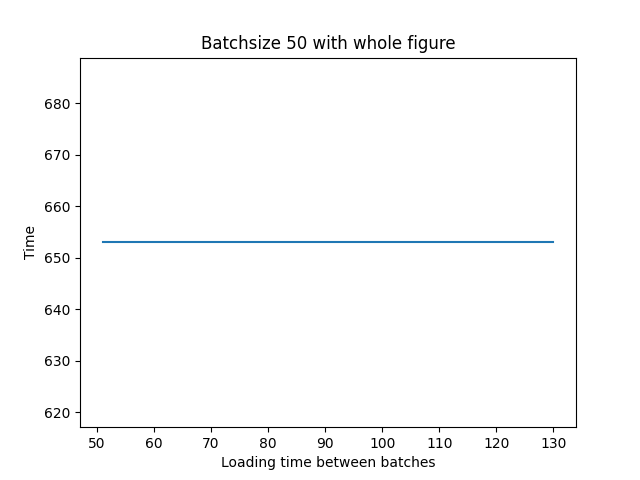
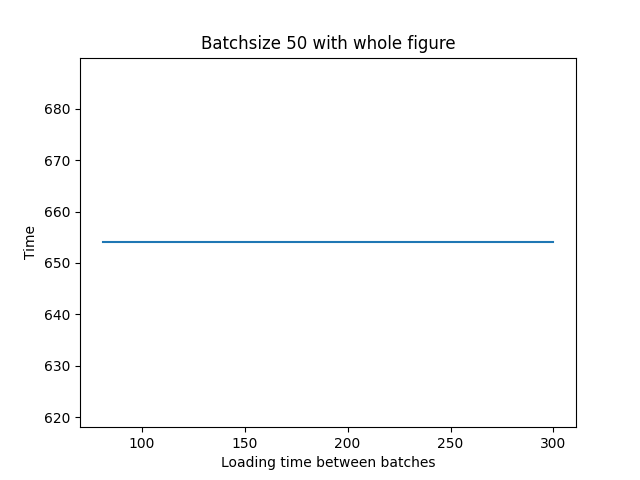
dsada

diff --git a/Task3/Exercise/ProductionLine.py b/Task3/Exercise/ProductionLine.py
@@ -604,14 +604,14 @@ def worstCase():
 
 
 def reducingTimeBetweenBatches():
-    numberOfSimulations = 130  # This number changes time between batches
+    numberOfSimulations = 300  # This number changes time between batches
     sim1 = [[], []]  # time and time between batches
     sim2 = [[], []]  # time and time between batches
     sim3 = [[], [], []]  # time, time between batches and average batchsize
-    while numberOfSimulations > 50:
-        simulation1 = Simulation(1000)
+    while numberOfSimulations > 80:
+        simulation1 = Simulation(1)
         simulation2 = Simulation(1)
-        simulation3 = Simulation(1)
+        simulation3 = Simulation(1000)
 
         # Simulation 1 with batchsize 20
         simulation1.setBatchSize(20)
@@ -660,7 +660,7 @@ def reducingTimeBetweenBatches():
     #print(sim1[0])
     #print(sim1[1])
     figure("figure_batchSize_20", "Time", "Loading time between batches",
-           sim1, xlim=(50, 125), ylim=(5500, 6600), title="Batchsize 20")
+           sim1, xlim=(0, 125), ylim=(5700, 7200), title="Batchsize 20")
     figure("figure_batchSize_50", "Time", "Loading time between batches",
            sim2, xlim=(240, 300), ylim=(5700, 6600), title="Batchsize 50")
     figure("figure_batchSize_50_Whole", "Time", "Loading time between batches",
@@ -688,7 +688,7 @@ def figure(filename, ylabel, xlabel, data, xlim=None, ylim=None, title=None):
 
 
 def changeOrderingHeuristicAndLoadingtimes():
-    numberOfSimulations = 115  # This number changes time between batches
+    numberOfSimulations = 120  # This number changes time between batches
     results = []
     sim1 = []  # time and time between batches and permutation
     simulationForPermutaions = Simulation(1)
@@ -698,7 +698,7 @@ def changeOrderingHeuristicAndLoadingtimes():
     task_permutations = task_permutations[240:]
     ###FJERN DENNE ETTERPÅ
 
-    while numberOfSimulations > 103:
+    while numberOfSimulations > 100:
         
         best_results_sim1 = [[], [], []]
         
@@ -936,6 +936,17 @@ st = time.time()
 
 allTimeBest1 = changeOrderingHeuristicAndLoadingtimes()
 print("The best solution for batchsize 20 is with total time: " + str(allTimeBest1[0]) + " and loading time between batches " + str(allTimeBest1[1]) + " minutes." + " and the best ordering heuristic is: Unit 1 : [" + ", ".join([str(task.getId()) for task in allTimeBest1[2][0]]) + "] Unit 2: [" + ", ".join([str(task.getId()) for task in allTimeBest1[2][1]]) + "] Unit 3: [" + ", ".join([str(task.getId()) for task in allTimeBest1[2][2]]) + "]" )
+#worstCaseTime, simulations = task_5()
+#print("This is an example of runtime with the worst case solution. One batch is loaded into the simulation, and the next one is not loaded until the first one is finished. This is repeated until all 1000 wafers is produced. The batch sizes is random from 20 to 50 wafers per batch, and therefore some variation in time between each run. The total runtime is: " + str(worstCaseTime) + " minutes for this simulation.")
+#print("Batchsize 20: The optimal solution is with total time: " +
+#                                             str(min(simulations[0][0])) + " and loading time between batches " + str(simulations[0][1][simulations[0][0].index(min(simulations[0][0]))]) + " minutes.")
+#print("Batchsize 50: The optimal solution is with total time: " +
+#                                             str(min(simulations[1][0])) + " and loading time between batches " + str(simulations[1][1][simulations[1][0].index(min(simulations[1][0]))]) + " minutes.")
+#
+#print("Batchsize 20: The optimal solution is with total time: " + str(min(simulations[2][0])) + " and loading time between batches " + str(
+#        simulations[2][1][simulations[2][0].index(min(simulations[2][0]))]) + " minutes. NOTE: With random batchsize, the optimal solution is likely to change from run to run.")
+
+
 et = time.time()
 elapsed_time = round(et - st, 2)
 print('Execution time:', elapsed_time, 'seconds')
